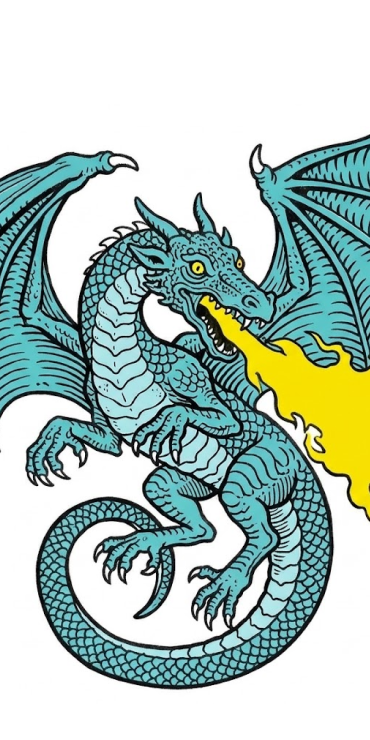
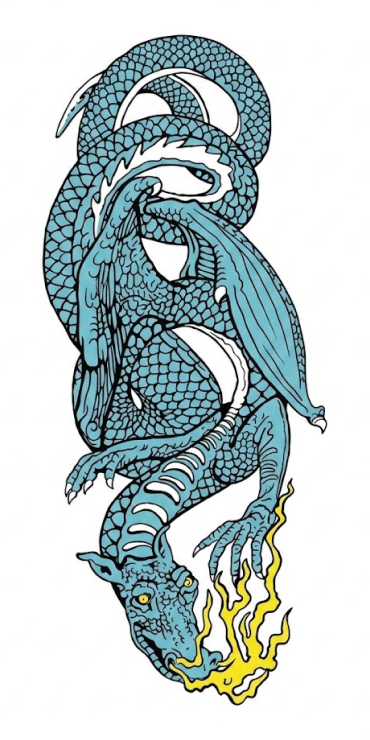
Começando section das regiões

diff --git a/src/App.tsx b/src/App.tsx
@@ -61,10 +61,11 @@ function App() {
         </nav>
       </header>
 
+      {/* Section 1 */}
       <section id="background" className="background">
         <img src="/background.png" alt="foto de fundo" />
       </section>
-
+      {/* Section 2 */}
       <section id="sobre" className="sobre">
         <img src="/sobre-image.png" alt="foto da logo" className="sobre-image" />
         <div style={{marginRight: '50px'}}>
@@ -76,7 +77,7 @@ function App() {
           </p>
         </div>
       </section>
-      
+      {/* Section 3 */}
       <section
         id="albuns"
         className="albuns"
@@ -117,7 +118,7 @@ function App() {
           />
         </div>
       </section>
-
+      {/* Section 4 */}
       <section id="personagens" className="personagens" style = {{ background: `linear-gradient(0deg, #000 0%, ${activeAlbum.backgroundColor} 100%)` }}>
         <div className="personagens-info">
           <h2 style={{fontSize: '50px', fontFamily: 'Anton, sans-serif'}}>PERSONAGENS</h2>
@@ -146,7 +147,13 @@ function App() {
             />
           </div>
         </div>
-        
+      </section>
+
+      {/* Section 5 */}
+      <section id="regioes" className="regioes">
+        <div>
+            <img src="map1.png" alt="Mapa" />
+        </div>
       </section>
 
     </div>
